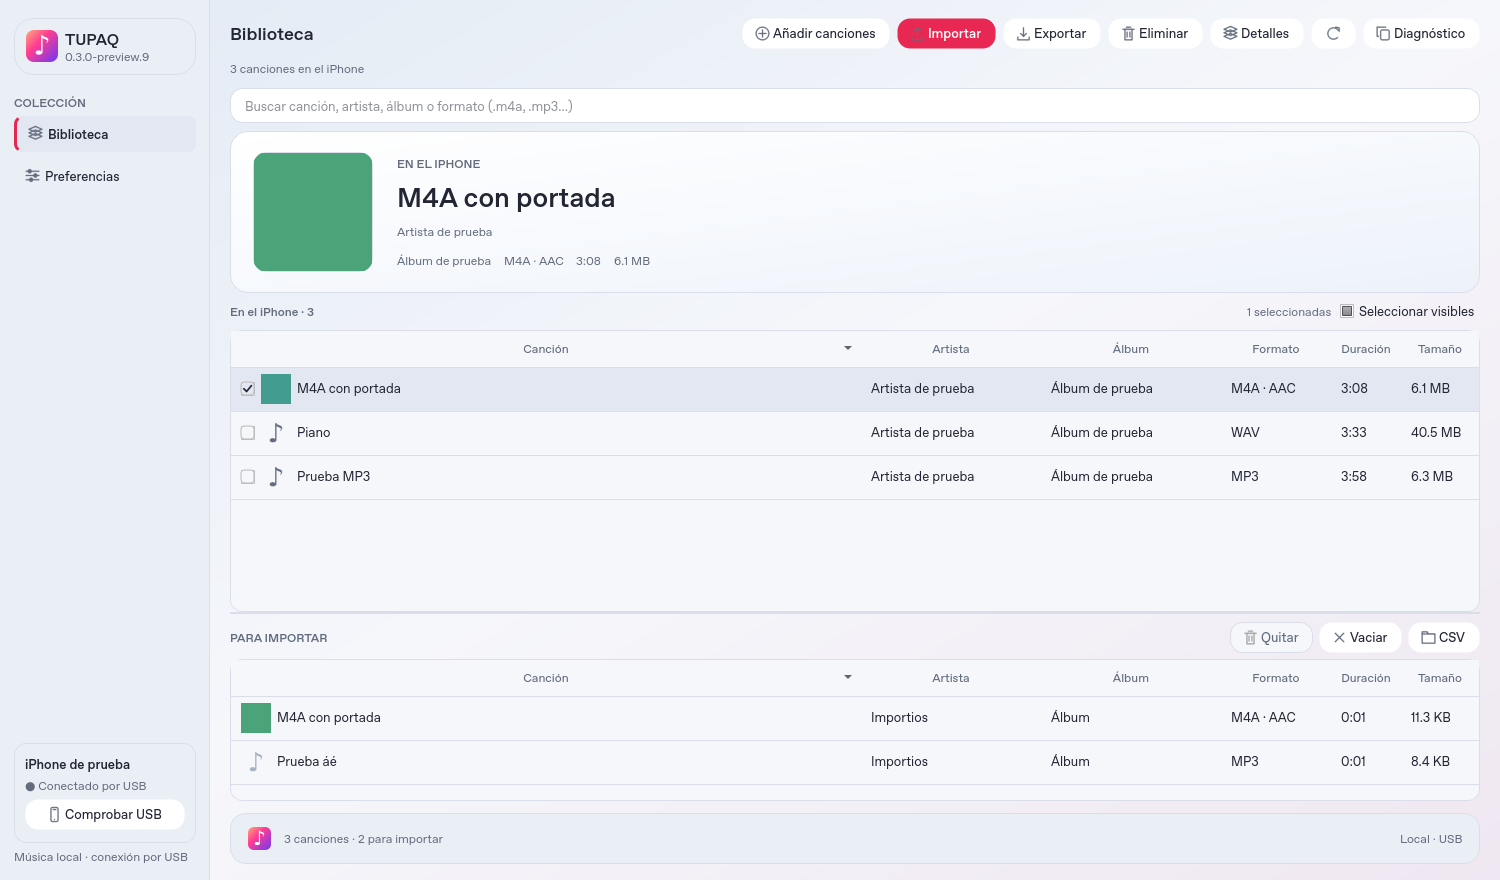
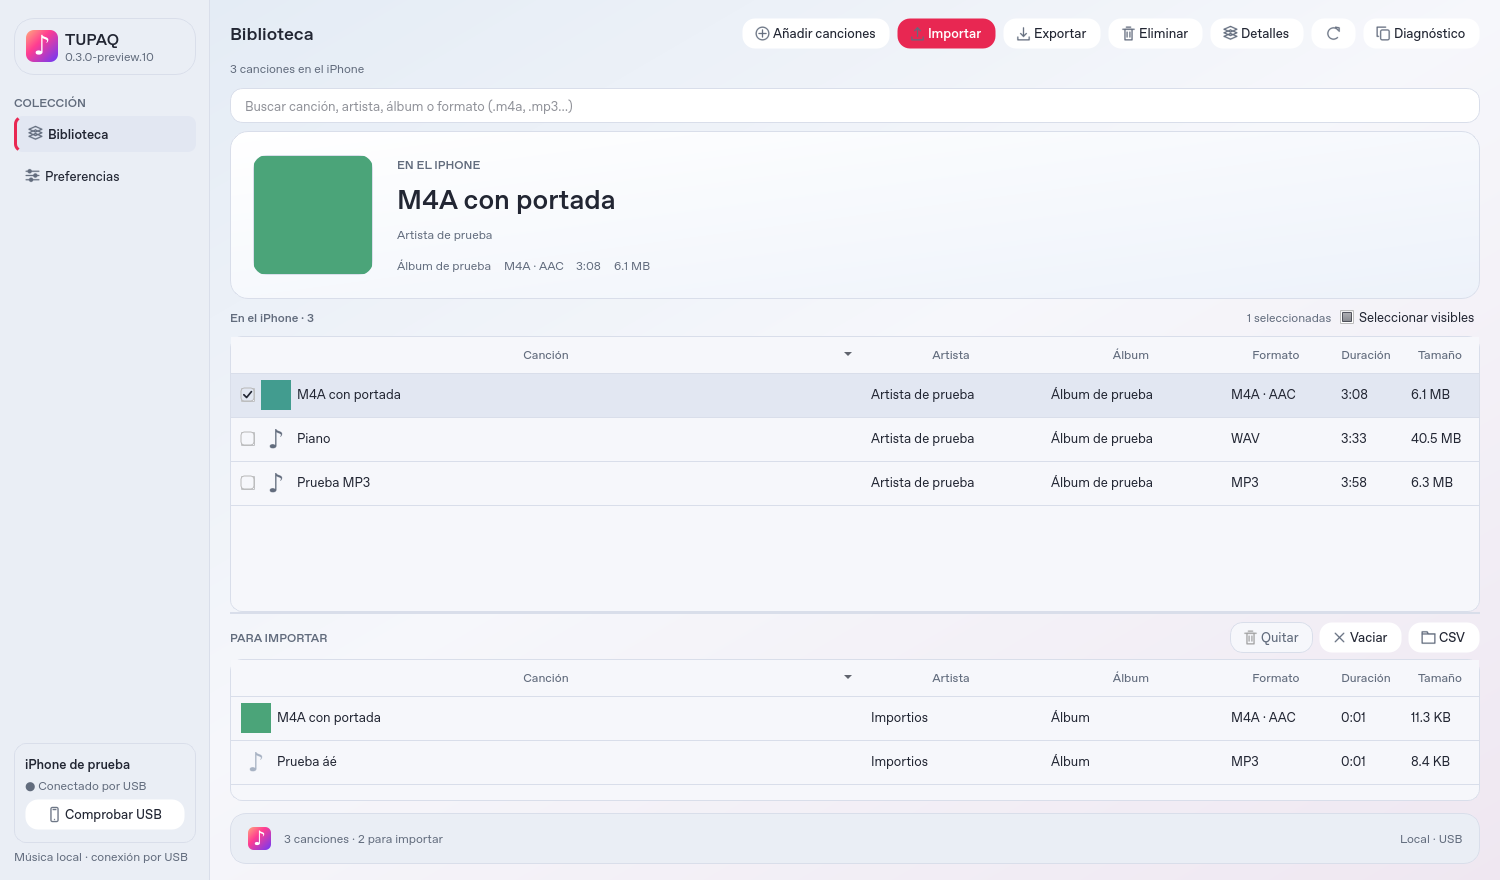
Accept platform font aliases in global typography checks

diff --git a/tests/test_refresh_fonts.py b/tests/test_refresh_fonts.py
@@ -54,17 +54,20 @@ class FontApplicationTests(unittest.TestCase):
         with patch('importios.native.sys.platform','win32'):
             w=Window(auto_connect=False);w.show();APP.processEvents()
             try:
-                current=QFontInfo(APP.font()).family()
-                family=next(f for f in QFontDatabase.families() if f!=current and QFontInfo(QFont(f)).family()==f)
+                current=w.font_choice.currentFont().family()
+                family=next(f for f in QFontDatabase.families() if f!=current)
                 old=QFontInfo(w.choose.font()).family();w.font_choice.setCurrentFont(QFont(family));APP.processEvents()
                 self.assertEqual(QFontInfo(w.choose.font()).family(),old);self.assertTrue(w.apply_font_button.isEnabled())
                 w.apply_font();APP.processEvents()
+                resolved=QFontInfo(APP.font()).family()
+                self.assertEqual(APP.font().family(),family)
                 for widget in (w.choose,w.nav_buttons[0],w.now_title,w.library_table,w.library_table.horizontalHeader(),w.theme_choice,w.status):
-                    self.assertEqual(QFontInfo(widget.font()).family(),family,widget.objectName())
+                    self.assertEqual(QFontInfo(widget.font()).family(),resolved,widget.objectName())
+                    self.assertIn(family,widget.font().families())
                 from PySide6.QtWidgets import QMessageBox
-                dialog=QMessageBox(w);self.assertEqual(QFontInfo(dialog.font()).family(),family);dialog.deleteLater()
+                dialog=QMessageBox(w);self.assertEqual(QFontInfo(dialog.font()).family(),resolved);dialog.deleteLater()
                 self.assertFalse(w.apply_font_button.isEnabled())
-                w.reset_font();self.assertEqual(QFontInfo(w.choose.font()).family(),family)
+                w.reset_font();self.assertEqual(QFontInfo(w.choose.font()).family(),resolved)
                 w.apply_font();APP.processEvents()
             finally:w.close();w.deleteLater();APP.processEvents()
 

diff --git a/scripts/publish_package.py b/scripts/publish_package.py
@@ -16,7 +16,7 @@ def main():
     if subprocess.run(view, stdout=subprocess.DEVNULL, stderr=subprocess.DEVNULL).returncode:
         with tempfile.TemporaryDirectory() as directory:
             notes = Path(directory)/'notes.md'
-            notes.write_text('''TUPAQ 0.3.0-preview.9: biblioteca estable, tipografía global y estilo Apple Music.
+            notes.write_text('''TUPAQ 0.3.0-preview.10: biblioteca estable, tipografía global y estilo Apple Music.
 
 - Sin vaciar la biblioteca mientras se actualiza después de importar. Conserva selección, casillas, posición de lectura y carátulas válidas. Ante un error mantiene la vista anterior con aviso.
 - Diseño inspirado en Apple Music: portada y resumen sobre la lista, paneles suaves, acento rosa y barra inferior de transferencias. Fondos estáticos, sin motor web ni desenfoque continuo.

diff --git a/importios/version.py b/importios/version.py
@@ -1,2 +1,2 @@
 """Version shown in the window and copied diagnostics."""
-VERSION = '0.3.0-preview.9'
+VERSION = '0.3.0-preview.10'

diff --git a/README.md b/README.md
@@ -7,7 +7,7 @@ El objetivo es importar música local a la app Música del iPhone sin usar la
 aplicación iTunes ni 3uTools.
 
 El usuario confirmó la lectura y la importación con metadatos y portada en Música del iPhone.
-La **0.3.0-preview.9** conserva la biblioteca visible mientras se actualiza después
+La **0.3.0-preview.10** conserva la biblioteca visible mientras se actualiza después
 de una importación, incluidas selección, marcas, posición de lectura y carátulas.
 Si falla la lectura, mantiene la última vista válida e indica que no está actualizada.
 El diseño se acerca a Apple Music: portada y detalles sobre la tabla, paneles suaves,

diff --git a/docs/TRANSFERENCIAS.md b/docs/TRANSFERENCIAS.md
@@ -391,7 +391,7 @@ La asignación usa un ID libre y busca huecos si el máximo de 32 bits ya está
 ocupado. Las portadas nuevas siguen requiriendo registro y bytes SHA-256 correctos.
 
 
-## Actualización visual y tipografía (preview.9)
+## Actualización visual y tipografía (preview.10)
 
 Al releer el catálogo, las filas anteriores siguen visibles con el aviso
 Actualizando biblioteca. Se muestra el resultado completo cuando termina la lectura,
